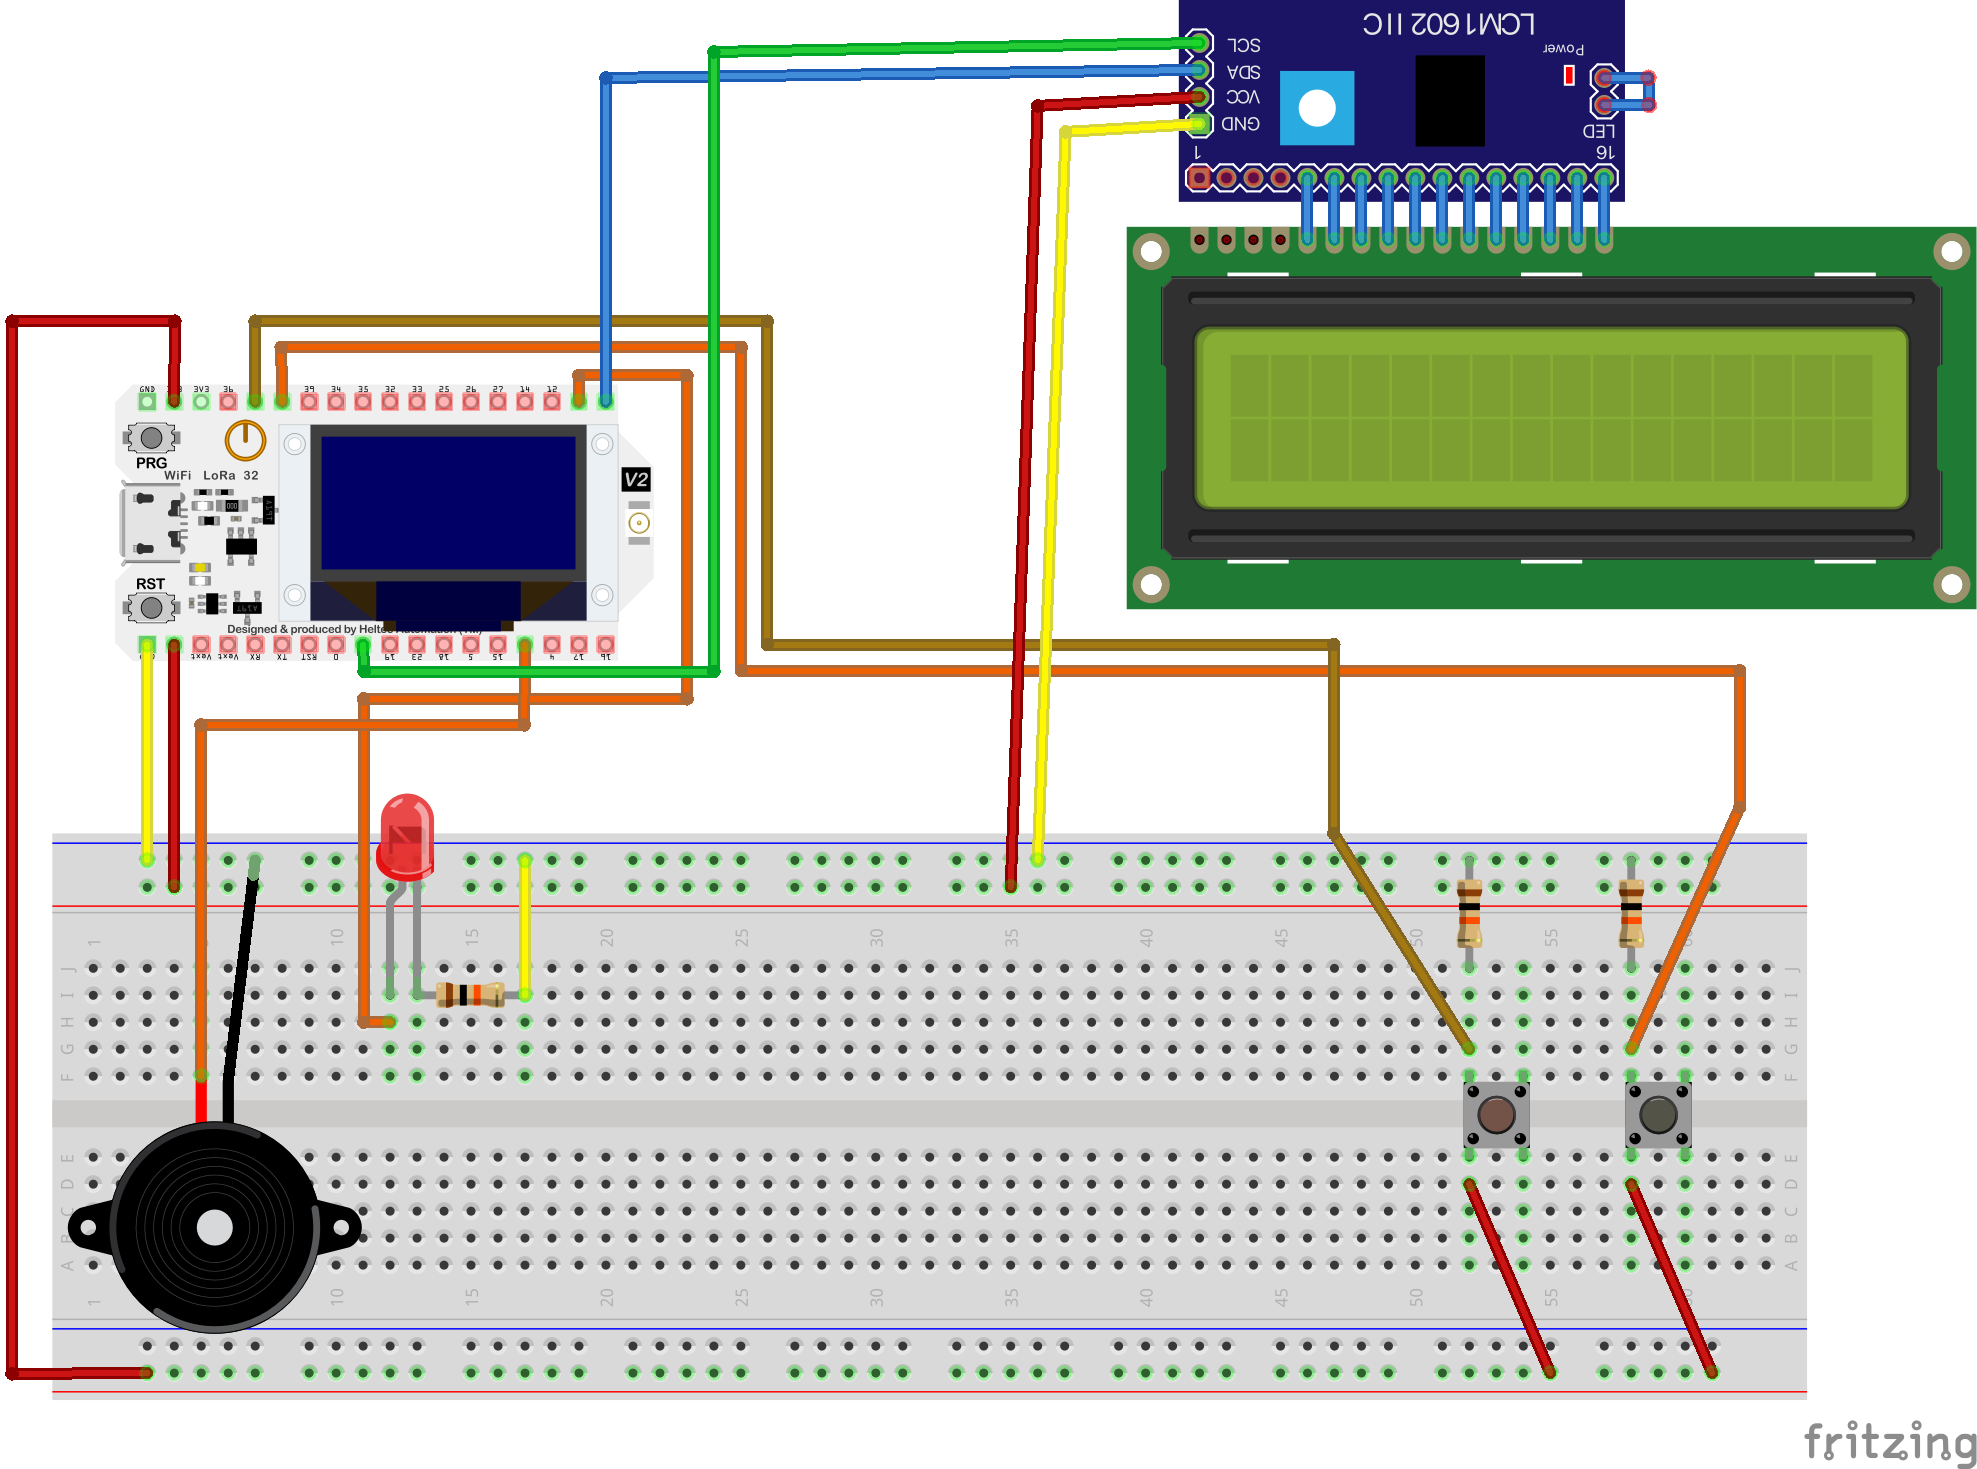
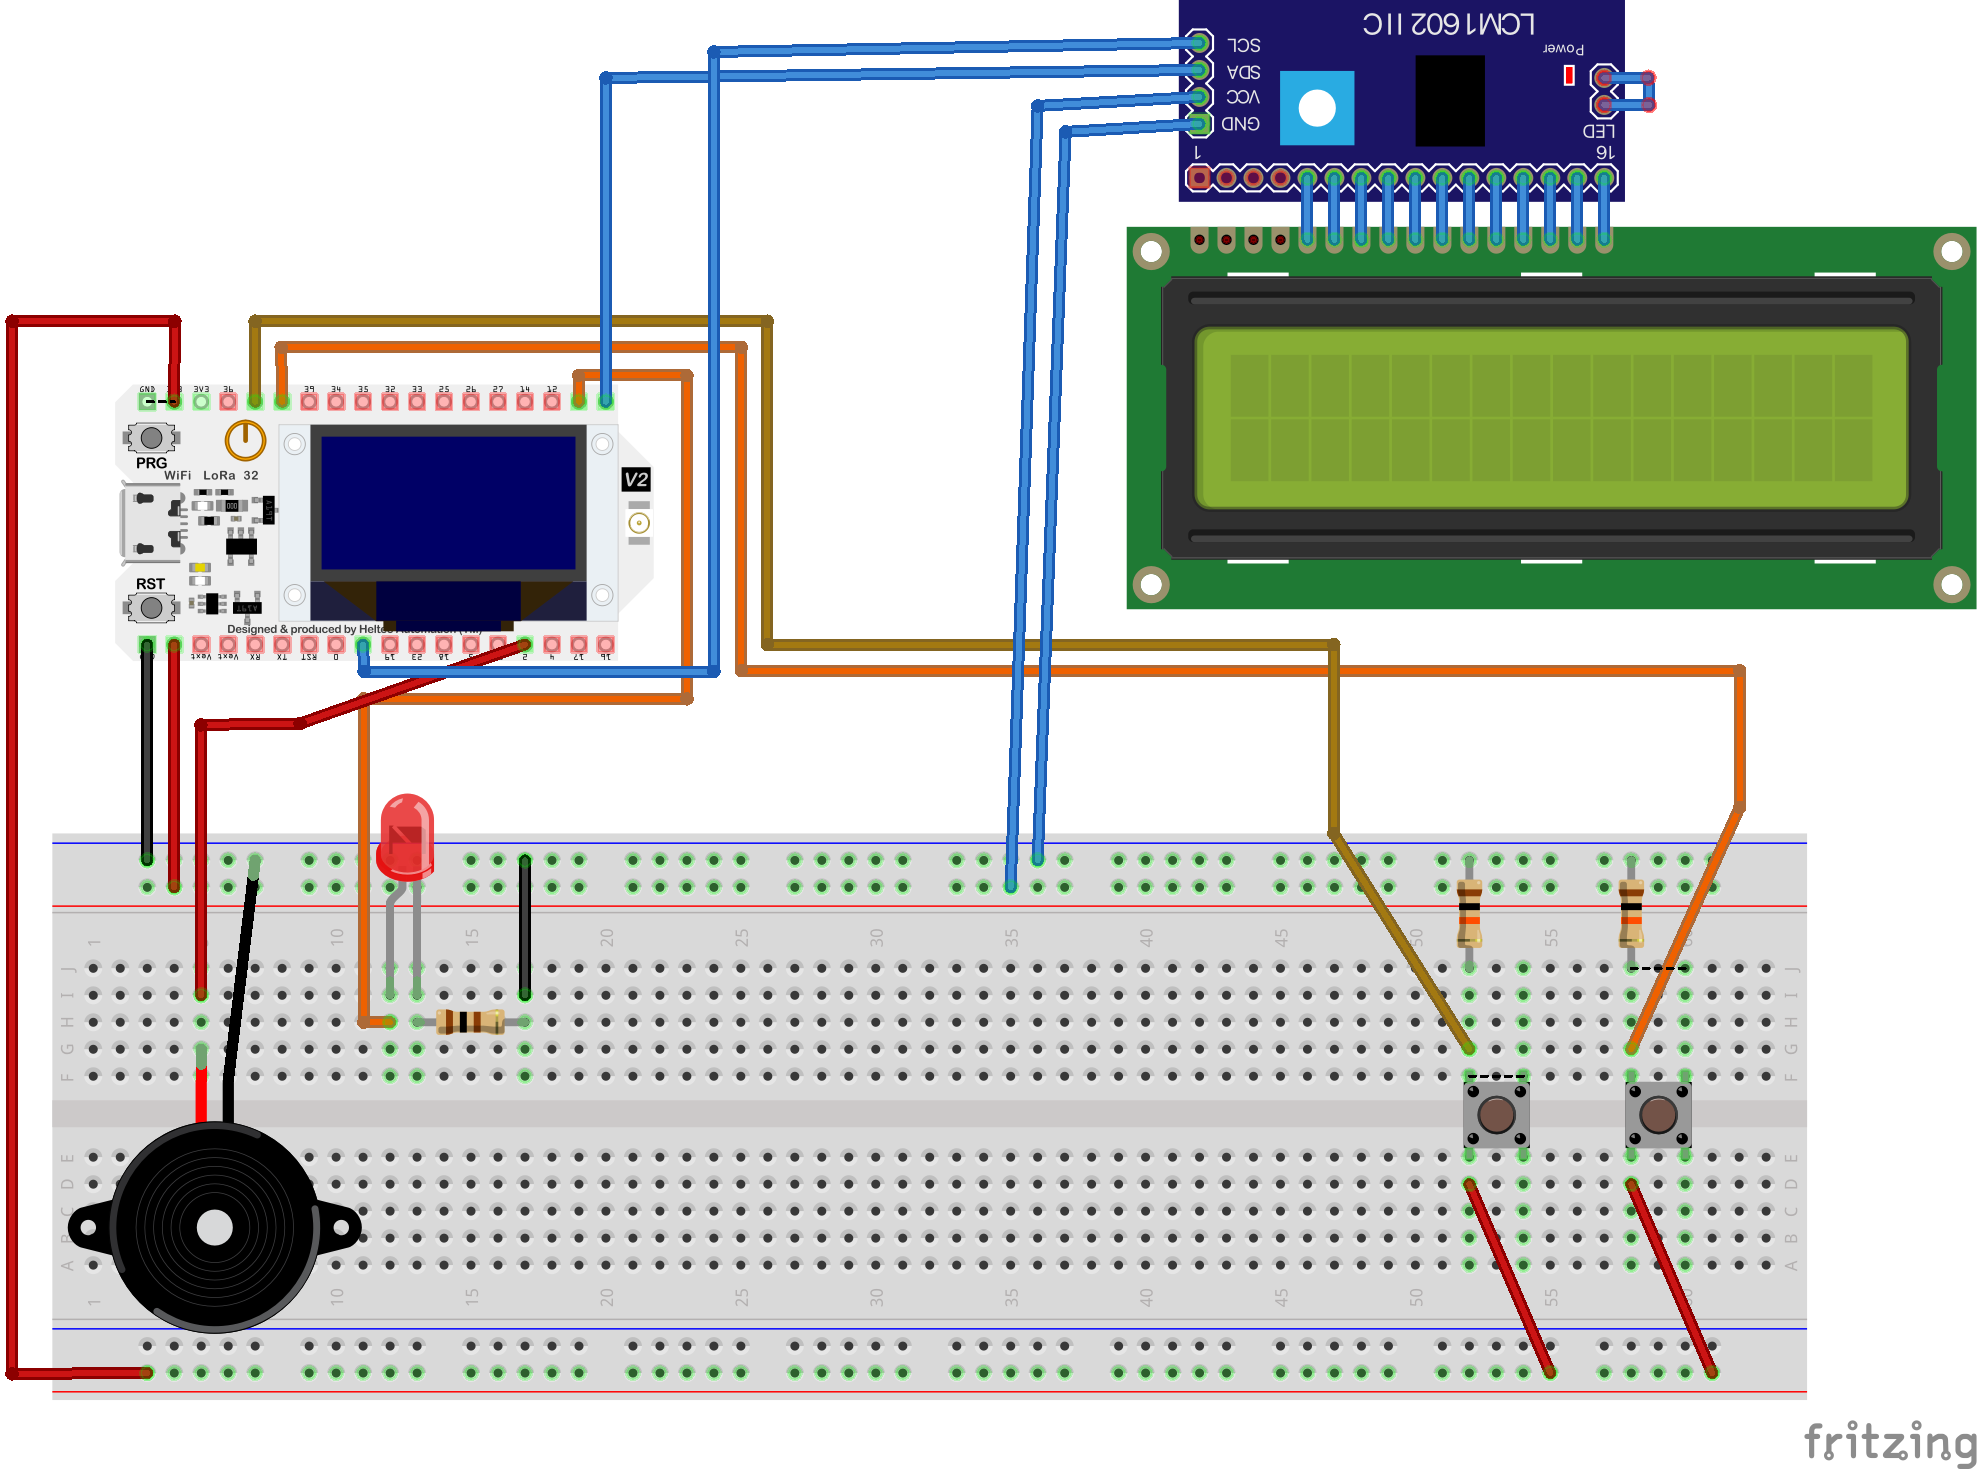
Updated Tutorial

Changed region(s): [[0.0617, 0.0, 0.6171, 0.7352], [0.216, 0.582, 0.2777, 0.7046], [0.8331, 0.7352, 0.8639, 0.7658]]

diff --git a/README.md b/README.md
@@ -29,7 +29,7 @@ To bee able to follow this tutorial please gather microcontroller, sensors etc w
 | 2 PCB Buttons ![PCB Buttons](https://www.electrokit.com/uploads/productimage/41004/41004643.jpg)        | These buttons will be used to make the user<br>choose answer by opening a voltage circuit and trigger input pin                                                                                                                                                                                    | [electrokit.com](https://www.electrokit.com/produkt/knappar-pcb-sortiment-12st/)                                                                                                                                                                                                                                                                           | 80kr (12pcs)          |
 | Bread Board ![Bread Board](https://imagedelivery.net/7FIW-iB8fZn595Ch5hs_rg/3569615d-8aa8-43c8-ab46-7f069d277300/w1000)          | This is used to connect all components solderless, but <br>you can design and print your own PCB if enough knowledge                                                                                                                                        | [sizable.se](https://sizable.se/P.TVY7M/Kopplingsdack-med-830-punkter)                                                                                                                                                                                                                                                                                 | 53kr                  |
 | Jumper Wires ![Jumper Wires](https://images-na.ssl-images-amazon.com/images/I/81lyrrBqMIL.__AC_SX300_SY300_QL70_ML2_.jpg)         | Only if bread board: These wires is used<br>to connect all components. Three different<br>contacts used as in link: female-to-female, male-to-female male-to-male!                                                                                                                              | [amazon.se](https://www.amazon.se/Elegoo-Flerf%C3%A4rgad-Breadboard-Bandkablar-Arduino/dp/B01EV70C78/ref=asc_df_B01EV70C78/?tag=shpngadsglede-21&linkCode=df0&hvadid=476462430370&hvpos=&hvnetw=g&hvrand=7042316417688917121&hvpone=&hvptwo=&hvqmt=&hvdev=c&hvdvcmdl=&hvlocint=&hvlocphy=1012345&hvtargid=pla-362913641420&psc=1)                                                                                                                                                                                                                                                                                                     | 80kr                  |
-| Resistors (2: 10k, 1:220) ![Resistors](https://i0.wp.com/www.autodesk.com/products/fusion-360/blog/wp-content/uploads/2020/08/1280px-Electronic-Axial-Lead-Resistors-Array.jpg?fit=1280%2C896&ssl=1)            | The resistor acts as a electrical resistance and reduces current, correct signal levels etc. In this project only two 10K Ohm is used as <br>pull-down resistor and one 220 Ohm for the LED.<br>But a pack of resistors is always good to have.                                                                                              | [sizable.se](https://sizable.se/P.3MSQ6/30-Varden-Motstand-600-st)                                                                                                                                                                                                                                                                                     | 72kr                    |
+| Resistors (2: 10k, 1:100) ![Resistors](https://i0.wp.com/www.autodesk.com/products/fusion-360/blog/wp-content/uploads/2020/08/1280px-Electronic-Axial-Lead-Resistors-Array.jpg?fit=1280%2C896&ssl=1)            | The resistor acts as a electrical resistance and reduces current, correct signal levels etc. In this project only two 10K Ohm is used as <br>pull-down resistor and one 100 Ohm for the LED.<br>But a pack of resistors is always good to have.                                                                                              | [sizable.se](https://sizable.se/P.3MSQ6/30-Varden-Motstand-600-st)                                                                                                                                                                                                                                                                                     | 72kr                    |
 | Red LED ![Red LED](https://www.electrokit.com/uploads/productimage/40300/5mm-r%C3%B6d-diffus.jpg)              | This is used to warn user that a message has arrived.<br>The projects uses a red LED that emits red light (red defuse) but any color and diameter<br>can be used (consider that you need different resistors for<br>different LEDs, this project uses 5mm RED 2v forward voltage) | [electrokit.com](https://www.electrokit.com/produkt/led-5mm-rod-diffus-1500mcd/)                                                                                                                                                                                                                                                                           | 5kr                      |
 | LCD 16x2 ![LCD 16x2](https://m.media-amazon.com/images/I/51DjiDX+hcL._SX342_SY445_.jpg)             | This is the main component that displays the message. You<br>can use any size you want but in this project 16x2 is used.<br> An LCD consists of liquid-crystal that can turn on and off to display text or other pictures. Consider one with I2C (synchronous serial communication), that makes it easier and requires less<br>wireing. If you are using a Heltec v2 board as in the tutorial you can use the built in OLED screen instead of a separate LCD.                                          | [amazon.se](https://www.amazon.se/AZDelivery-LCD-Modulvisningsbunt-I2C-Gr%C3%A4nssnitt-kompatibel-Raspberry/dp/B07CQG6CMT/ref=asc_df_B07CQG6CMT/?tag=shpngadsglede-21&linkCode=df0&hvadid=476555136704&hvpos=&hvnetw=g&hvrand=582242616344342109&hvpone=&hvptwo=&hvqmt=&hvdev=c&hvdvcmdl=&hvlocint=&hvlocphy=1012345&hvtargid=pla-653596068129&psc=1) | 89kr                      |
 | Buzzer ![Buzzer](https://asset.conrad.com/media10/isa/160267/c1/-/sv/1511446_LB_00_FB/image.jpg?x=400&y=400)               | This buzzer makes a sound (with frequency) when receiving a message and also when<br>sent successfully. This outputs a lower db sound than a speaker, <br>so if correct knowledge speaker is recommended.                                                        | [conrad.com](https://www.conrad.se/p/conrad-components-93038c212a-miniatyr-summer-ljudniva-85-db-spaenning-5-v-1-st-1511467?utm_campaign=shopping-feed&utm_content=free-google-shopping-clicks&utm_medium=surfaces&utm_source=google&utm_term=1511467&vat=true)                                                                                        | 8kr                      |
@@ -199,7 +199,7 @@ if redButton.value() == 1: # If red button is pressed
 ### MQTT
 As told earlier the IoT-Intercom sends all data with MQTT topics. But in order for this to work you will need a MQTT broker, the one used in this project is called mosquitto. This can be installed on mac with homebrew command: ```brew install mosquitto```. On Windows you can download mosquitto [here](https://mosquitto.org/files/binary/win64/mosquitto-2.0.14-install-windows-x64.exe).
 
-On mac add the following at the buttom of the file /opt/homebrew/etc/mosquitto/mosquitto.conf:
+On mac add the following at the buttom of the file ```/opt/homebrew/etc/mosquitto/mosquitto.conf```:
 ```
 listener 1883
 allow_anonymous true
@@ -229,12 +229,17 @@ If you would like to collect all question answers and answer time as well as gen
 Visit [demo](https://stem.ubidots.com/app/dashboards/public/dashboard/LZ-PLgHjEOeZQa3TXqeL7Tp_d929xqBDxMsQhk7SXw8)
 
 ### Setup
-First of all you will have to set up a Ubidots account. Then you should add a blank device. Inside this device you can setup different varibels, create one and copy the ID (as in figure below). This ID and the Ubidots Token (found in API Credentials) is needed in the Node-RED node called "Setup Requests" edit those parameters and click deploy the Node-RED flow in the top right corner in the Node-RED environment. No you should also see your messages in the Ubidots platform, but you will have to setup your own Ubidots dashboard.
+First of all you will have to set up a Ubidots account. Then you should add a blank device. Inside this device you can setup different variables, create one and copy the ID (as in figure below). This ID and the Ubidots Token (found in API Credentials) is needed in the Node-RED node called "Setup Requests" edit those parameters and click deploy the Node-RED flow in the top right corner in the Node-RED environment. No you should also see your messages in the Ubidots platform, but you will have to setup your own Ubidots dashboard.
 
 ![Ubidots ID](Ubidots/id.png)
 </br>_Figure that shows where to find varibel id_
 
+## Finalizing the design
+This project was a fun experience. My main goals was to learn how to interact with software from hardware, an example is how pressing the buttons would trigger a software function cause the GPI detects voltage. It was also a fun experience making the communication architecture, how I could use a dashboard on any mobile platform or similar to communicate with the device and both received and send data. Ive learned both more electrical and circuitary as well as some new communication protocols such as MQTT. Further down is a gif and a video showing the final results.
+
 ![Video Preview](video/video-preview.gif)
 </br>_Video that shows the device in action_
 
-For video with audio: [https://vimeo.com/726465080](https://vimeo.com/726465080)
+For video with audio: [https://vimeo.com/726475908](https://vimeo.com/726475908)
+
+![Image over device](images/device.jpg)
